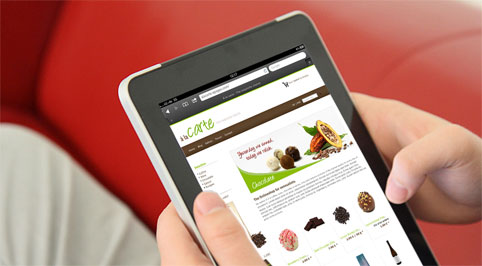
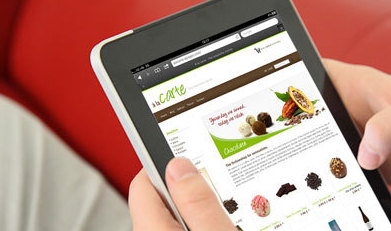
Initial

diff --git a/css/index.css b/css/index.css
@@ -6,43 +6,48 @@ header{
     background-image: url("../img/background.jpg");
      background-position: center center;
     background-size: cover;
-    height: 267px;
+    height: 270px;
      display: flex;
     align-items: center;
     justify-content: center;
 }
  .main{
     margin-top: 19px;
-    margin-bottom: 14px;
+    margin-bottom: 16px;
     
      display: flex;
     justify-content: flex-end;
     align-items: flex-start;
 }
 .photo_phone img {
-    width: 383px;
+    width: 380px;
     margin-left: 28px;
-    margin-right: 19px;
+    margin-right: 20px;
     display: flex;
-    box-shadow: 1px 1px 1px 1px #7c7c7c;
+    box-shadow: 0 0 1em  #7c7c7c;
 }
 .main_info h1{
     font-size: 21px;
     margin-right: 90px;
+     margin-bottom: 15px;
    
 }
-.main_info p{
+.main_info p {
     font-size: 14px;
-    margin-right: 38px;
-     margin-top: 15px;
-    margin-bottom: 15px;
+     color: grey;
+    margin-right: 40px;
+    margin-bottom: 20px;
     
 }
 #btn  {
+    font-size: 13px;
+    width:115px;
     height: 28px;
     color: white;
-    border-bottom: none;
-    background: -moz-linear-gradient(#cc3333 #da4137);
+    border: none;
+    border-radius: 3px;
+    -ms-border-radius: 3px;
+    background: -moz-linear-gradient(#cc3333, #da4137);
     background: -webkit-gradient(linear, 0 0, 0 100%, from(#cc3333), to(#da4137));
 }
 .efficiency{
@@ -54,16 +59,14 @@ header{
     font-size: 18px;
     margin-bottom: 10px;
     display: flex;
-/*    *Tahoma/*/
 }
 .efficiency p {
     font-size: 14px;
-    /**Time/*/
+     color: grey;
 }
 
 .types_of_strategy{
     margin-left: 10px;
-    /*margin-right:34px;*/
     margin-bottom: 44px;
    overflow:hidden;
    display: flex;
@@ -93,11 +96,12 @@ header{
 
 .all_info h2 {
     font-size: 18px;
-    margin-bottom: 10px; 
+    margin-bottom: 5px; 
     /*Tahoma*/
     
 }
 .all_info p {
     font-size: 14px;
+    color: grey;
     margin-bottom: 25px;
 }

diff --git a/index.html b/index.html
@@ -20,7 +20,8 @@
                 <h1><strong>Типы контента, которые вы можете публиковать в своем интернет-магазине. </strong></h1>
                 <p>Грамотная контентная стратегия для интернет-магазина позволяет значительно увеличить объемы поискового трафика на сайт, за который предпринимателю нет необходимости платить. Это повышает рентабельность бизнеса, ускоряет его развитие и
                     дает преимущество...</p>
-                <button id="btn" name="button">Подробнее</button>
+                    <input id="btn" type="submit" value="Подробнее">
+                <!--<button id="btn" name="button">Подробнее</button>-->
             </div>
         </div>
     </header>
